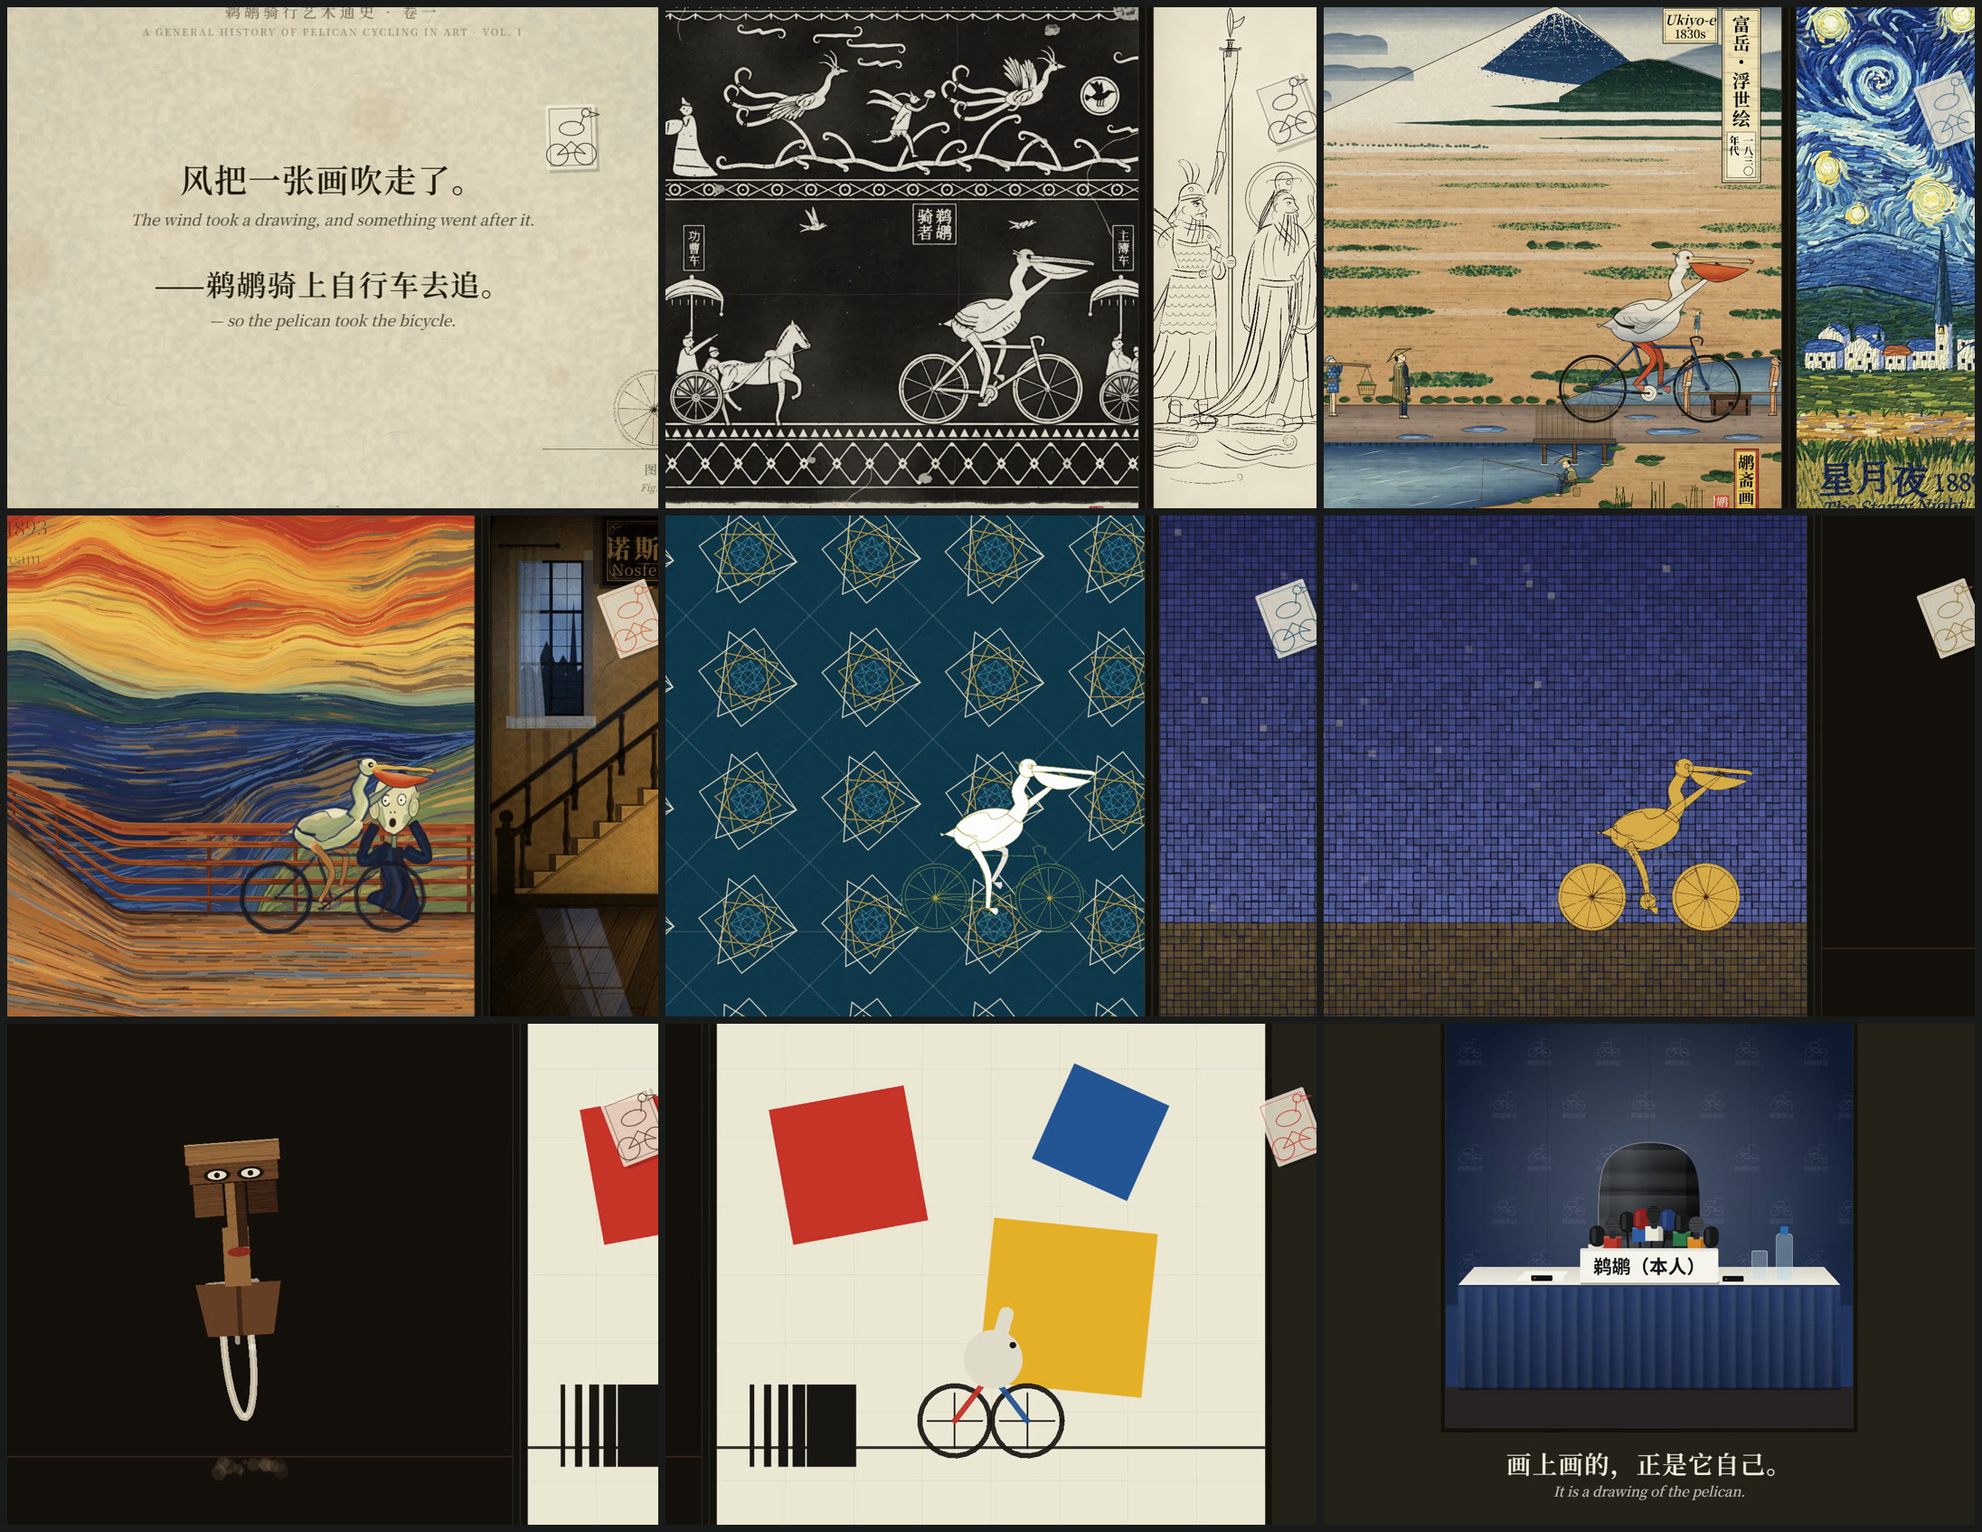
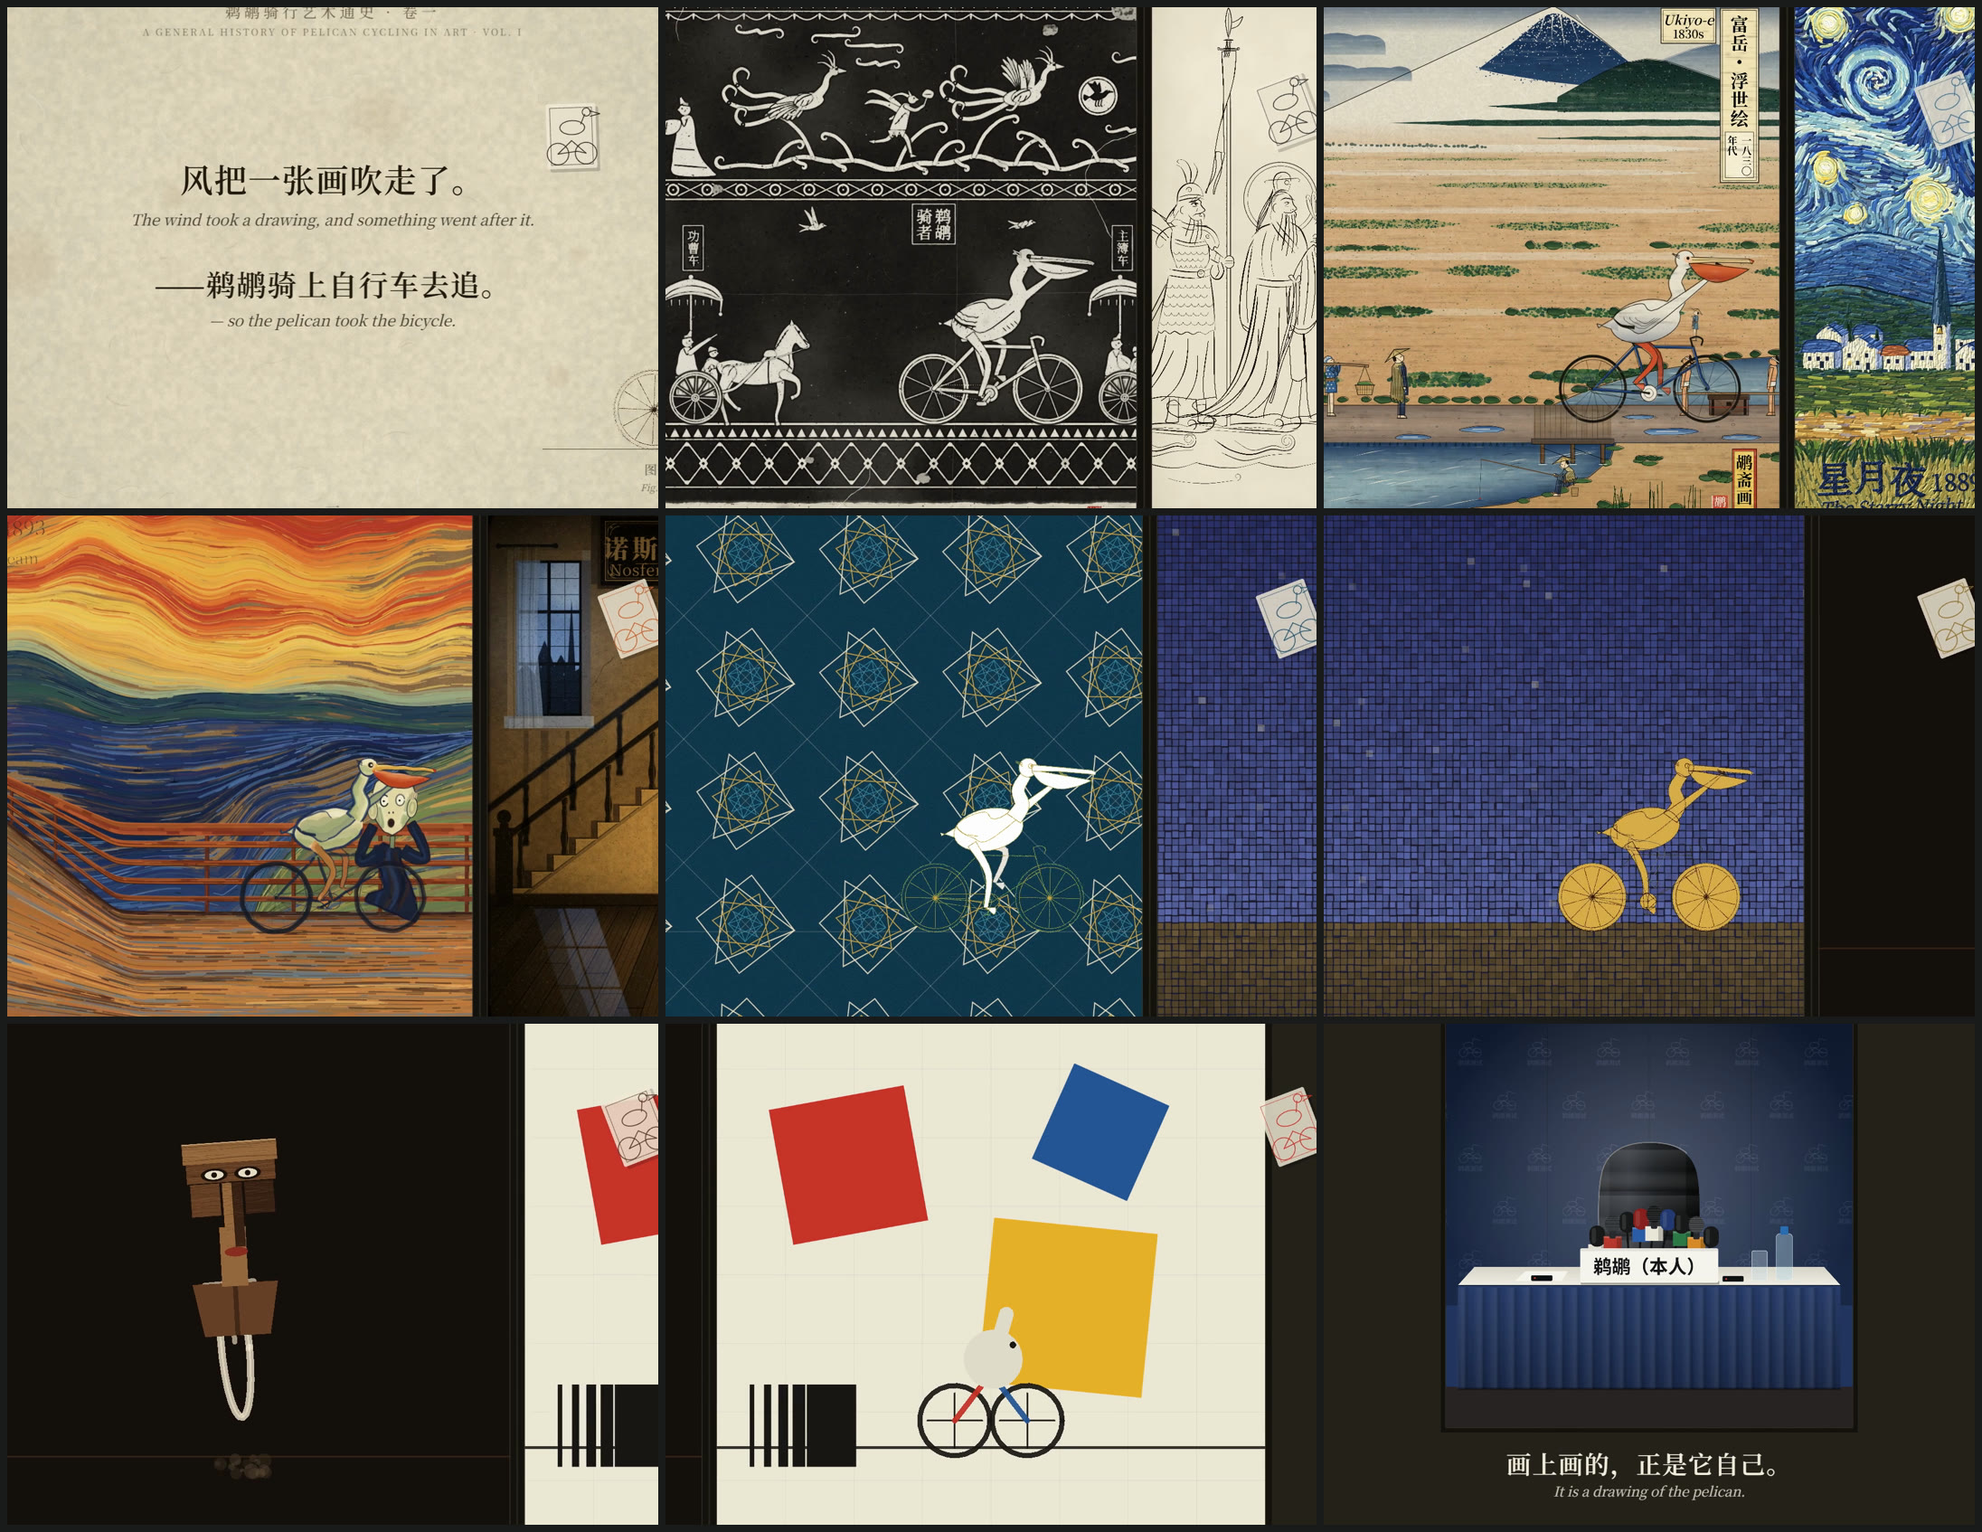
fix(outro): the wall only painted 21 of 24 panels; caption said 20 eras
The outro grid was a fixed 7x3 = 21 cells while the film now has 24 panels
plus the press seat = 25. The last four cells fell on row 3, past the end of
T_ROW, so T_ROW[3] was undefined, k became NaN and the positions became NaN:
byzantine, mask and bauhaus were never drawn, and the seat landed a row below
the wall.

- COLS 7 -> 8: 24 panels divide exactly into 8x3, so the wall fills and the
  seat keeps its own row underneath, as in the 20-panel cut.
- The grid anchor is now derived from the last cell's column (LAST_COL)
  instead of a hard-coded -2*GP, so a different panel count cannot misalign it.
- The seat moves to a lower row: with eight columns the wide shot zooms out
  further, which lifted the seat until it collided with the closing caption.
- Caption counts come from N_SCENES ('' 24 eras '') instead of the literal
  ''twenty eras''.
- version 2.2.2; CHANGELOG and README updated; PROVENANCE.md rewritten for
  readers (upstream, creative boundary, evidence) instead of local paths.

diff --git a/src/main/outro.js b/src/main/outro.js
@@ -10,13 +10,25 @@ import {
 } from '../beat/timeline.js';
 import { smoothstep, smootherstep, lerp, easeInOut, easeOutBack, clamp } from '../kit/math.js';
 
-export const COLS = 7, ROWS = 3;
-export const N_CELLS = N_SCENES + 1;              // 20 panels + the press seat
+// 24 panels divide exactly into 8 x 3, so the wall fills completely and the
+// press seat sits BELOW it — the same composition as the original 20-panel cut,
+// where the seat was also a row below the wall. Cramming 24 panels + a seat into
+// a fixed 7x3 grid (21 cells) left the last four cells at row 3, past the end of
+// T_ROW: T_ROW[r] came back undefined, k became NaN, and those panels vanished.
+export const COLS = 8, ROWS = 3;
+export const N_CELLS = N_SCENES + 1;              // N panels on the wall + the press seat
 export const PRESS = N_SCENES;                    // cell index of the press seat
 const GP = 1200;                                  // wall pitch (panel + gap)
 const ROW_LAST_Y = PANEL / 2;                     // the bottom row stays at the scroll height
-// panel 20 (cell 19, bottom row, column 5) stays where the story left it
-const ANCHOR_X = panelLeft(N_SCENES - 1) + PANEL / 2 - 2 * GP;   // x of the middle column
+const MID_COL = (COLS - 1) / 2;                   // 3.5: eight columns have no integer centre
+const LAST_COL = (N_SCENES - 1) % COLS;
+// The seat gets its own row well below the wall: at one pitch below (the old
+// position) an eight-column wall zooms out further, which lifts the seat on
+// screen until it collides with the closing caption.
+const SEAT_Y = ROW_LAST_Y + GP * 1.35;
+// The last panel must not jump when the wall forms, so the grid is anchored on
+// it: wallC(N_SCENES-1).x === stripC(N_SCENES-1).x.
+const ANCHOR_X = panelLeft(N_SCENES - 1) + PANEL / 2 - (LAST_COL - MID_COL) * GP;
 
 export const T_PULL = OUTRO_START;                // 125: pull back starts
 export const T_STRIP = OUTRO_START + 1.2;         // whole scroll visible
@@ -36,8 +48,9 @@ export const LAST_FRAME_T = (Math.round(DURATION * FPS) - 1) / FPS;
 const stripC = (i) => [panelLeft(i) + PANEL / 2, CAMERA_Y];
 /** Wall centre of cell i. */
 export const wallC = (i) => {
+  if (i === PRESS) return [ANCHOR_X, SEAT_Y];
   const col = i % COLS, row = Math.floor(i / COLS);
-  return [ANCHOR_X + (col - 3) * GP, ROW_LAST_Y + (row - (ROWS - 1)) * GP];
+  return [ANCHOR_X + (col - MID_COL) * GP, ROW_LAST_Y + (row - (ROWS - 1)) * GP];
 };
 
 /** Centre of cell i at time t (world units), its fold progress k, and whether it is in place. */

diff --git a/docs/PROVENANCE.md b/docs/PROVENANCE.md
@@ -1,72 +1,106 @@
-# 版本关系与 v2 分支
+# 来源、版本关系与二次创作边界
 
-这份文档记录两件容易搞错的事，以及证明它们的证据。
-
-## 当前分支
-
-| 分支 | 是什么 |
-|---|---|
-| `main` | 已发布版，与 B 站那支视频同源 |
-| `v2-chase` | **二次创作**：把「穿过美术史」改成「追一张被风卷走的画」 |
-
-v2 的改动边界：文本、叙事、音乐全部重写，**保留 20 格美术与程序化框架**。
-原作者的文字（片头「人类自古以来就痴迷于画鹈鹕骑自行车」、
-片尾「截至目前人类共提交了 20 份答卷」）在 v2 里已全部替换。
+这份文档回答三个问题：**这片的原作是谁的、v2 改了什么、凭什么说它同源。**
 
 ---
 
-## 结论
+## 1. 上游来源
 
-**本仓库（`RoyceBella-commits/The-Pelican-Test`）是《鹈鹕测试》的最新版**，
-也是 B 站那支已发布视频的源码。
+| 项目 | 值 |
+|---|---|
+| 原作仓库 | [RoyceBella-commits/The-Pelican-Test](https://github.com/RoyceBella-commits/The-Pelican-Test) |
+| 原作许可 | MIT |
+| 原作首次提交 | 2026-10-20 |
+| 原作发布渠道 | [B 站 · BV1pLnw6YEzq](https://www.bilibili.com/video/BV1pLnw6YEzq/)（播放 19.7 万） |
+| 原作片长 | 137.00 s / 8220 帧 |
 
-`E:\pelican-test` 是**另一条独立实现路径**，创建于 2026-10-29，比本仓库晚 9 天，
-美术完成度明显更低。它不是本仓库的分支，二者没有共同祖先。
+原作是一支全程序化短片：一只鹈鹕骑车穿过 20 个艺术时代，每一格的画法由各时代的美术特征决定。
+片中不含任何手绘素材或录音 —— 画面由 p5.js + p5.brush 实时计算，音乐由 Web Audio 合成。
 
-## 证据
+本仓库以原作为基础。**原作的程序化框架、美术实现与配乐引擎予以保留并署名**，
+v2 改写的是叙事、文本与音乐主题（见下）。
 
-### 1. 配乐互相关 —— 决定性证据
+---
 
-把本仓库的 `node tools/audio.mjs` 渲染结果与 B 站视频
-（[BV1pLnw6YEzq](https://www.bilibili.com/video/BV1pLnw6YEzq/)，播放 19.7 万）
-的音轨做归一化互相关：
+## 2. v2 是什么
+
+v2 把「穿过美术史」改造为一条**追逐线**：
+
+> 风把一张画吹走了。鹈鹕骑上自行车去追。
+
+每穿过一道画框，世界换一种画法；那张被追的画也随时代被重新画一遍，
+直到最后落在鹈鹕手里 —— 而画上画的正是它自己。
+
+| | 原作 `main` | v2 |
+|---|---|---|
+| 叙事 | 线性巡礼 | 追逐（有目标物、有落点） |
+| 格数 | 20 | **24** |
+| 片长 | 137.00 s | **161.00 s** |
+| 主题旋律 | 原作 THEME | 重写：上行模进 + 画的高音回旋动机 + 追逐动机 |
+| 片头 / 片尾文案 | 「人类自古以来就痴迷于画鹈鹕骑自行车」/「人类共提交了 20 份答卷」 | 全部替换 |
+| 新增装置 | — | 被追的画（`src/main/paper.js`）、伸翅去够的追逐动作 |
+
+### 新增的四个时代
+
+不是又多画一个世纪，而是每一格提出一个**新的绘制问题**：
+
+| # | 时代 | 这一格要解决的问题 |
+|---|---|---|
+| 21 | 伊斯兰几何 | 没有主体 —— 规则本身就是题材；鹈鹕成为纹样里被挖去的一块 |
+| 22 | 拜占庭马赛克 | 图像由离散方块构成；金色靠不透明平涂而非水彩叠色 |
+| 23 | 非洲面具 | 正面平面造型，而其余 23 格都是侧影 |
+| 24 | 包豪斯构成 | 只用圆、矩形、三角等几何原语组装出鹈鹕 |
+
+### 文本替换的范围
+
+原作者的表达性文字在 v2 里**全部移除**，换成新的叙事文案：
+
+- 片头：「人类自古以来就痴迷于画鹈鹕骑自行车。——早在自行车被发明之前」
+  → 「风把一张画吹走了。——鹈鹕骑上自行车去追。」
+- 片尾：「截至目前，人类共提交了 20 份答卷。鹈鹕本人对此尚未发表评论」
+  → 「追了 24 个时代，那张画终于落下来。画上画的，正是它自己。」
+
+各时代的美术简报（`briefs/`）属于原作的实现材料，保留原样。
+
+---
+
+## 3. 凭什么认定同源
+
+v2 建立在原作代码之上，这一点有可复现的证据，不是声明。
+
+### 配乐互相关
+
+把原作代码渲染出的配乐与 B 站音轨做归一化互相关：
 
 | | 时长 | peak | rms |
 |---|---|---|---|
-| 本仓库渲染 | 137.00 s | 0.889 | 0.1133 |
+| 原作渲染 | 137.00 s | 0.889 | 0.1133 |
 | B 站音轨 | 137.00 s | 0.880 | 0.1130 |
 
 - 全长归一化互相关：**0.9995**
 - 22 个 6 秒段逐段：全部 ≥ **0.9930**
 
-差异只来自 B 站的上传转码。同源的音轨不可能是这个相关系数。
+差异只来自 B 站的上传转码。同源的音轨不可能是这个相关系数 ——
+这同时证明了「本仓库就是那支视频的源码」。
 
-### 2. 规模与架构对比
+### 规模与架构
 
-| | 本仓库 | `E:\pelican-test` |
-|---|---|---|
-| 首次提交 | 2026-10-20 | 2026-10-29 |
-| 场景代码 | 1,518,158 字节 | 261,848 字节 |
-| 美术简报 | 44 份 + `STYLE.md` 总纲 | 1 份 |
-| 响度处理 | `audio/levels.json` 逐时代人工标定 | `PERIOD_TRIM` 硬编码 |
-| 音频架构 | `audio/` 六模块（dsp / engine / eras / instruments / score / tape） | `src/audio/` 三模块 |
-| p5.brush | 2.2.3 | 3.0.0 |
-| 片长 / 帧数 | 137.00 s / 8220 帧 | 138.50 s / 8280 帧 |
+| | 原作 |
+|---|---|
+| 场景代码 | 1,518,158 字节 |
+| 美术简报 | 44 份 + `STYLE.md` 总纲 |
+| 响度处理 | `audio/levels.json` 逐时代人工标定 |
+| 音频架构 | `audio/` 六模块（dsp / engine / eras / instruments / score / tape） |
+| p5.brush | 2.2.3 |
 
-场景代码相差 5.8 倍，且文件命名（`01-sahara.js` 对 `sahara.mjs`）、
-时间轴模块（`src/beat/timeline.js` 对 `src/beat/beat.mjs`）都不同。
+v2 沿用这套结构，只在 `src/scenes/` 增加四个文件、在 `audio/score.js` 重写主题、
+在 `src/main/` 增加 `paper.js` 与追逐逻辑。
 
-### 3. 画面
+---
 
-同题材同时刻对照，本仓库的星月夜有真正的涡旋笔触与厚涂，
-`E:\pelican-test` 是同色圆心点阵；呐喊在本仓库有透视桥体与多层渐层，
-后者是几条平涂色带。
+## 4. 署名与许可
 
-## 为什么要记下来
-
-2026-10-30 的交接文档（`E:\pelican-test\CONTINUE.md` 与两份 HANDOFF）
-把本地仓库当成唯一真相，据此列出的「下一步」与真实状态不符：
-它记录的待办（修音频电平、导出成片、预览页）在**已发布版里早就做完了**，
-而它没有意识到自己是一份更早、更弱的实现。
-
-如果下次接手时又只看本地仓库，就会重复一整轮已经把成品做丢的工作。
+- 原作 © RoyceBella-commits，MIT 许可。
+- v2 的二次创作部分同样以 MIT 发布。
+- 转载或再创作时请保留原作仓库链接与 B 站视频链接。
+- 第三方依赖的许可见 [THIRD_PARTY_NOTICES.md](../THIRD_PARTY_NOTICES.md)。

diff --git a/README.md b/README.md
@@ -6,23 +6,22 @@
 >
 > *The wind took a drawing, and something went after it.*
 
-**版本 2.2.1** · 全程序化生成的短片：一只鹈鹕追一张被风吹走的画，穿过 **24 个**时代的画。
+**版本 2.2.2** · 全程序化生成的短片：一只鹈鹕追一张被风吹走的画，穿过 **24 个**时代的画。
 每穿过一道画框，世界换一种画法，那张画也被重新画一遍。
 
 **片中没有一张手绘图，也没有一秒录音**——每一帧由 p5.js + p5.brush 算出，每一个音符由 Web Audio 合成。
 
 ![九个时刻：片头、汉画像石、浮世绘、星月夜、四个新增题材、尾声](media/preview.jpg)
 
-*上排：片头「风把一张画吹走了」· 汉画像石（伸翅去够那张画）· 唐代白描 · 浮世绘 · 星月夜
-中排：呐喊 · 诺斯费拉图 · **伊斯兰几何（新增）** · **拜占庭马赛克（新增）**
-下排：**非洲面具（新增）** · **包豪斯构成（新增）** · 尾声「画上画的，正是它自己」*
+*九个时刻，从片头一路走到尾声。每格里同时能看到相邻的两道画框，
+因为镜头一直在两个时代之间移动。*
 
 | | |
 |---|---|
 | 时长 | 161 秒（24 格，已渲染成片） |
 | 帧数 | 9660 |
 | 分辨率 / 帧率 | 1920×1080 @ 60 fps |
-| 当前版本 | `2.2.1` · 见 [CHANGELOG.md](CHANGELOG.md) |
+| 当前版本 | `2.2.2` · 见 [CHANGELOG.md](CHANGELOG.md) |
 
 ---
 
@@ -34,7 +33,7 @@
 | **把片子跑起来** | [§5 怎么跑起来](#5-怎么跑起来) —— 注意要用分段渲染，不是 `npm run render` |
 | **理解它是怎么做的** | [§1 当前架构](#1-当前架构) · [§4 设计](#4-设计它是怎么工作的) |
 | **改代码前** | [docs/MEMORY.md](docs/MEMORY.md) —— 五个会静默失败的坑，踩过才知道 |
-| **弄清版本关系** | [docs/PROVENANCE.md](docs/PROVENANCE.md) —— 本仓库与 v1、B 站视频的关系及证据 |
+| **弄清来源与创作边界** | [docs/PROVENANCE.md](docs/PROVENANCE.md) —— 原作是谁的、v2 改了什么、凭什么说同源 |
 | **看每版改了什么** | [CHANGELOG.md](CHANGELOG.md) |
 | **当 npm 包用** | [docs/using-as-a-package.md](docs/using-as-a-package.md) |
 | **查第三方许可** | [THIRD_PARTY_NOTICES.md](THIRD_PARTY_NOTICES.md) |

diff --git a/CHANGELOG.md b/CHANGELOG.md
@@ -7,6 +7,47 @@
 
 ---
 
+## [2.2.2] — 2026-10-31
+
+**片尾字幕与展墙都和实际格数不符，以及因此必须重渲。**
+
+### 修复
+- 片尾字幕写着「追了**二十**个时代」/「Twenty eras later」，
+  但 v2 已经是 **24** 格。这是加四个新格时漏掉的一致性错误 ——
+  只有把片子看到结尾才会发现。
+- 改为从时间轴的 `N_SCENES` 动态生成计数，不再硬编码：
+  `追了${nZh}个时代，那张画终于落下来。` / `${n} eras later, the drawing comes down.`。
+  以后再加格，字幕自动跟上。
+- **片尾展墙少画了四格**。墙的网格是 `COLS = 7, ROWS = 3`（21 格），
+  而 24 格 + 1 个席位需要 25 格：最后四格的 `row` 是 3，
+  `T_ROW[3]` 取到 `undefined`，`k` 变成 `NaN`，位置也变成 `NaN`，
+  于是拜占庭、面具、包豪斯三格**根本不画**，席位则掉到墙外一行。
+  改为 `COLS = 8`（24 = 8×3 正好满墙），席位单独放在墙下方一行 ——
+  与 20 格原版的构图一致。
+  锚点也改为从末格的列号推算（`LAST_COL`），不再是写死的 `- 2 * GP`，
+  这样以后改格数不会再错位。
+
+### 为什么是全片重渲而不是补尾声
+试过只重渲尾声（8940–9659 帧）再与旧片拼接，失败了两次：
+
+1. 从旧成片 `-c copy` 抽出前段后，时间戳本身已带漂移 ——
+   实测 8939–8942 帧处为 148.971 → 149.021 → 149.004 → 149.088 s，
+   不是单调递增。
+2. 拼回去总长变成 **161.055 s**，而不是 161.021 s。
+
+拼接的旧片会带着已知的漂移进入交付物。所以重渲全部 9660 帧。
+教训：**不要修补一个时间戳已经不干净的交付物，要重建它。**
+
+### 已验证
+| 项目 | 结果 |
+|---|---|
+| 帧数 | 9660（全部通过 `check:frames`） |
+| 时长 | 161.00 s（视频）/ 161.003 s（音频实测） |
+| 规格 | 1920×1080 · 60 fps · H.264 + AAC 立体声 |
+| 片尾字幕 | 「追了24个时代，那张画终于落下来。」/「24 eras later, the drawing comes down.」 |
+
+---
+
 ## [2.2.1] — 2026-10-31
 
 **音画同步的端到端验证，以及它抓出的一个真实缺陷。**
